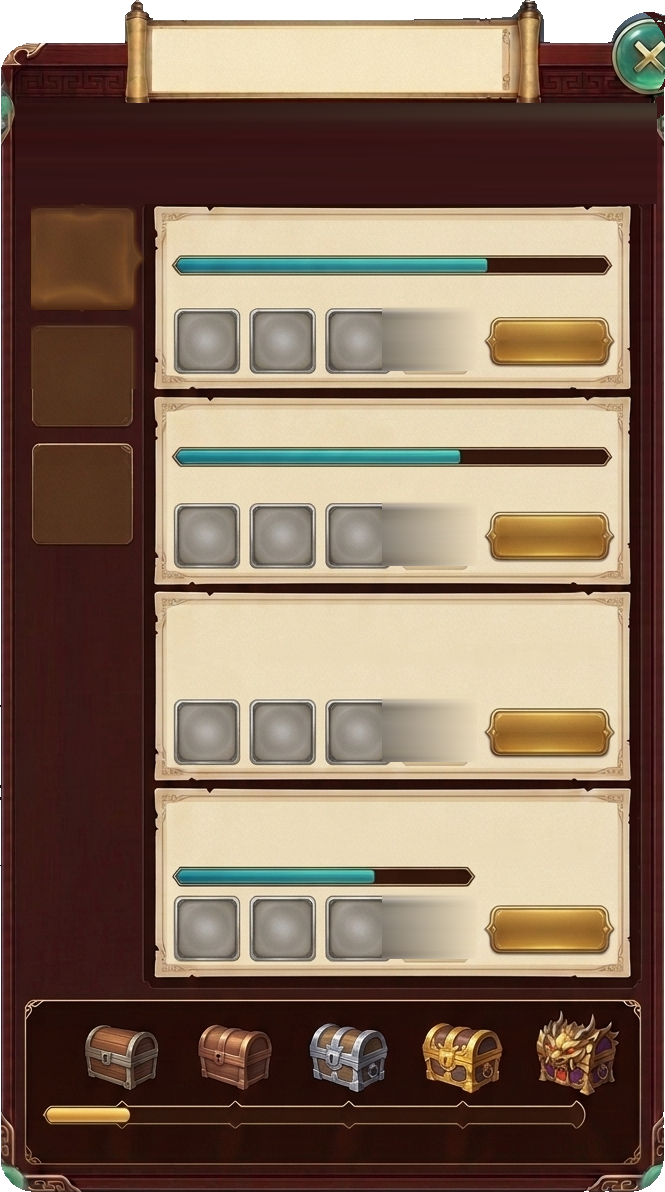
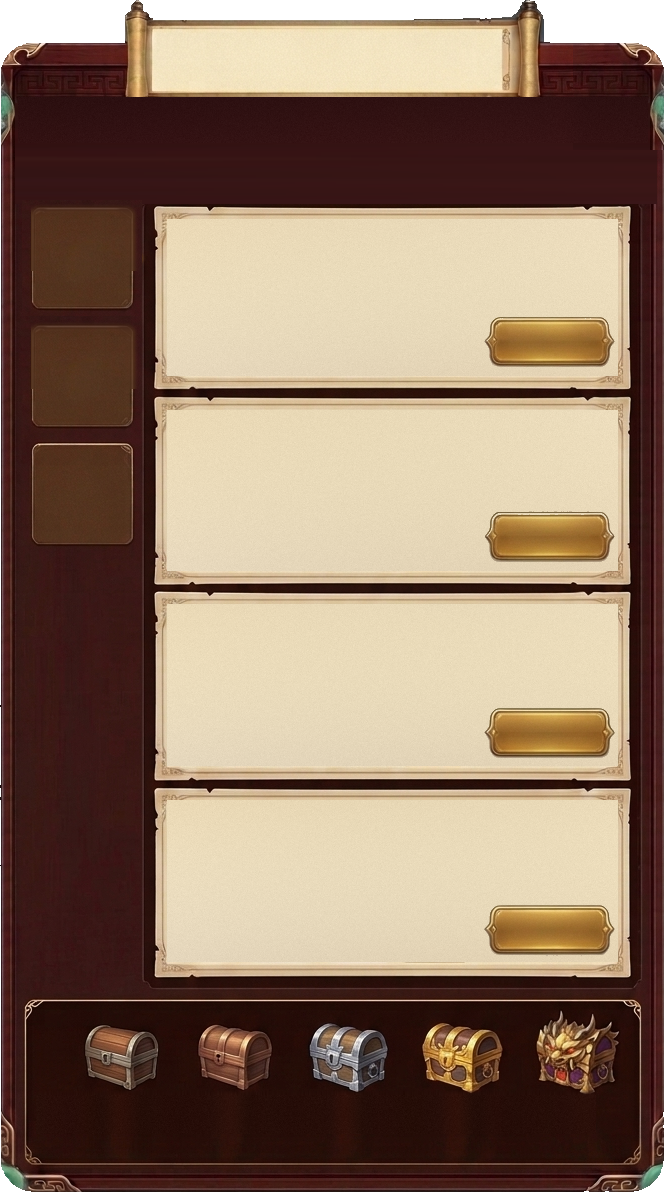
fix(jobs): clean card interiors (no smeared slots or baked bars), concept-size close button from the concept art, crisp slots, visible reputation track

diff --git a/src/ui/jobs-hall.css b/src/ui/jobs-hall.css
@@ -202,3 +202,24 @@
 #hvJobsRoot .hv-jobs-back:after{transform:translate(-50%,-50%) rotate(-45deg)!important}
 #hvJobsRoot .hv-job-name .jn{min-width:0;overflow:hidden;text-overflow:ellipsis;white-space:nowrap}
 #hvJobsRoot .hv-job-name em{flex:0 0 auto}
+
+/* Owner 2026-11-02: card interiors rebuilt clean; close button = concept sprite at concept size;
+   slots and progress bars drawn crisp in the concept style. */
+#hvJobsRoot .hv-jobs-back{left:88.6%!important;top:1.2%!important;width:11.4%!important;height:auto!important;aspect-ratio:1!important;
+  background:url('assets/ui/jobs/jobs-close.png') center/100% 100% no-repeat!important;border:0!important;border-radius:50%!important;box-shadow:none!important;padding:0!important}
+#hvJobsRoot .hv-jobs-back:before,#hvJobsRoot .hv-jobs-back:after{display:none!important}
+#hvJobsRoot .hv-job-bar{background:linear-gradient(#2a1c14,#3d2a1d)!important;box-shadow:inset 0 0 0 .3cqw #6b4a2c,inset 0 1px 2px rgba(0,0,0,.6)!important}
+#hvJobsRoot .hv-job-bar i{background:linear-gradient(180deg,#5fd0cc,#2f8f93 60%,#246f73)!important}
+#hvJobsRoot .hv-job-slot{border-radius:1.5cqw!important}
+#hvJobsRoot .hv-job-slot.is-empty{background:linear-gradient(#e6d6b4,#d6c39d)!important;box-shadow:inset 0 0 0 .32cqw #b4966a,inset 0 .4cqw .8cqw rgba(70,40,10,.18)!important}
+#hvJobsRoot .hv-job-slot.is-empty:after{color:rgba(110,70,26,.6)!important}
+#hvJobsRoot .hv-job-slot:not(.is-empty){box-shadow:inset 0 0 0 .32cqw #d9a845,0 .2cqw .6cqw rgba(50,24,6,.35)!important}
+#hvJobsRoot .hv-job-slot.s2:not(.is-empty){background:radial-gradient(circle at 50% 40%,#6e4c1e,#2b1b09 75%)!important}
+
+/* Owner 2026-11-02b: title never runs into the role tag; tag a touch smaller. */
+#hvJobsRoot .hv-job-name{right:35%!important;overflow:hidden!important;text-overflow:ellipsis!important;white-space:nowrap!important;display:block!important;line-height:5.1cqw}
+#hvJobsRoot .hv-job-need{font-size:2.05cqw!important;max-width:33%;overflow:hidden;text-overflow:ellipsis}
+
+/* Owner 2026-11-02c: readable reward glyph on the dark slot; visible reputation track like the concept. */
+#hvJobsRoot .hv-job-slot.s2 u{color:#ffd88a!important;text-shadow:0 1px 2px #000}
+#hvJobsRoot .hv-rep-track{background:linear-gradient(#140b06,#2a1a10)!important;box-shadow:inset 0 0 0 .25cqw rgba(214,170,90,.6),0 .2cqw 0 rgba(255,220,150,.12)!important;height:14%!important;border-radius:2cqw!important}
